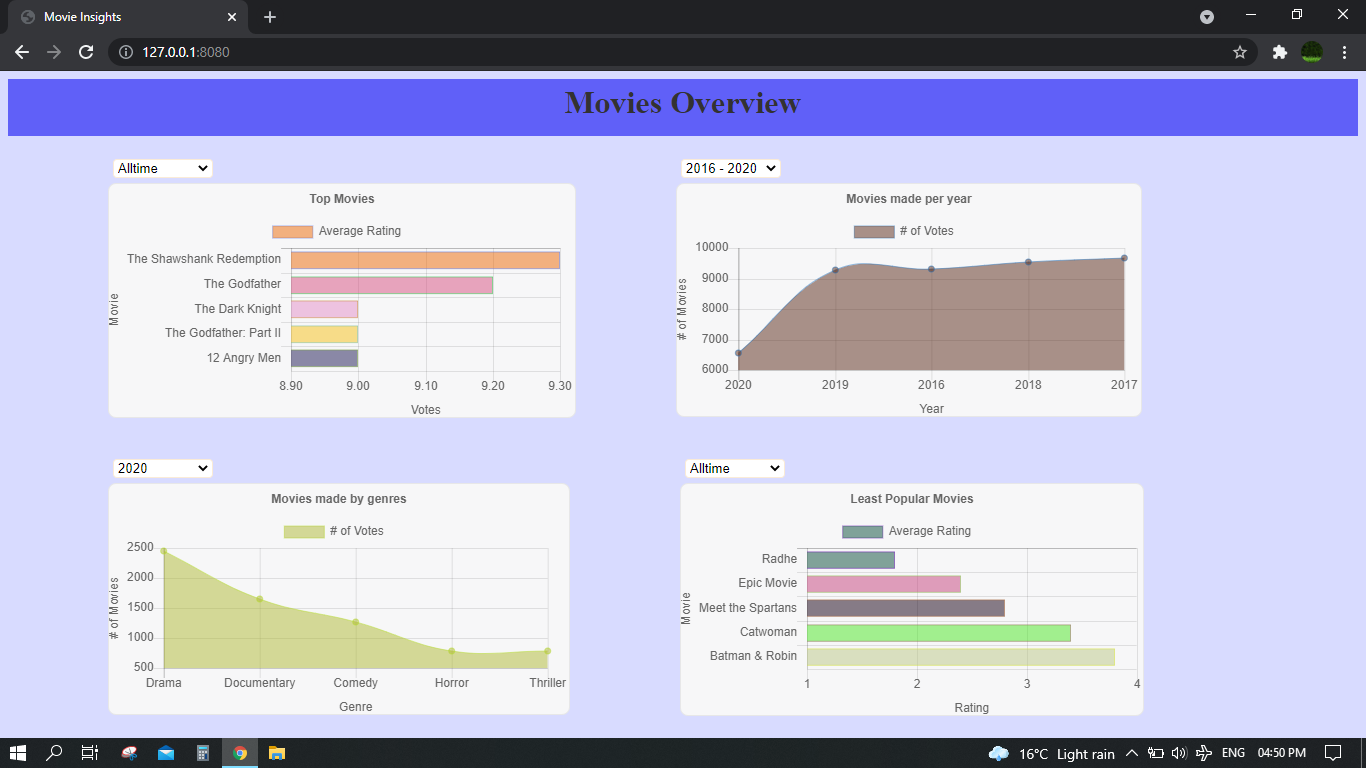
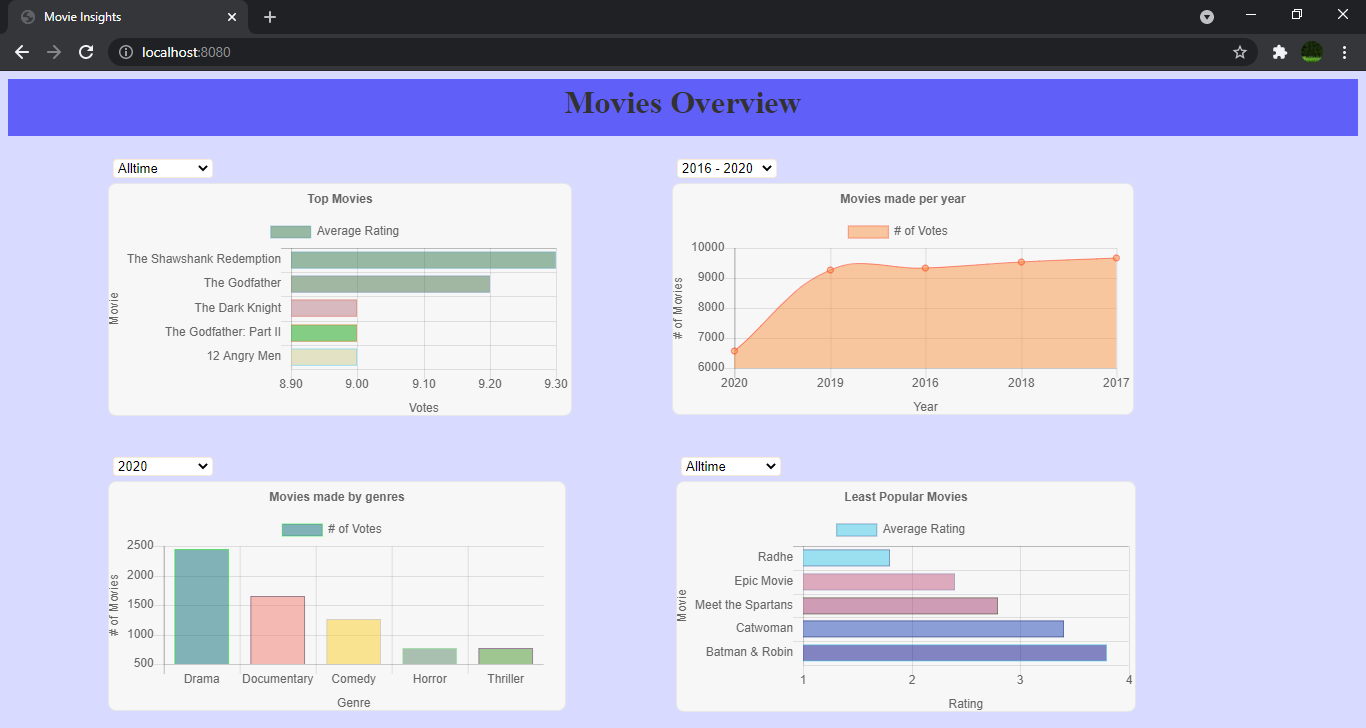
added further visualisation

Changed region(s): [[0.0, 0.0604, 1.0, 1.0], [0.0307, 0.0, 0.0922, 0.0302], [0.0615, 0.3929, 0.0922, 0.4231]]

diff --git a/visualiser/js/data.js b/visualiser/js/data.js
@@ -203,7 +203,7 @@ function genre_chart(data, update){
     var ctx4 = document.getElementById("chart4").getContext('2d');
     if(!update){
         myChart4 = new Chart(ctx4, {
-            type: 'line',
+            type: 'bar',
             data: {
                 labels: data[0],
                 datasets: [{

diff --git a/visualiser/server.js b/visualiser/server.js
@@ -9,7 +9,6 @@ var fs = require('fs')
 function openPort(app) {
     app.use(express.static(path.join(__dirname, 'js')));
     app.get('/', function (req, res) {
-        console.log("it worked")
         execute()
         res.sendFile(path.join(__dirname + '/index.html'));
     });
